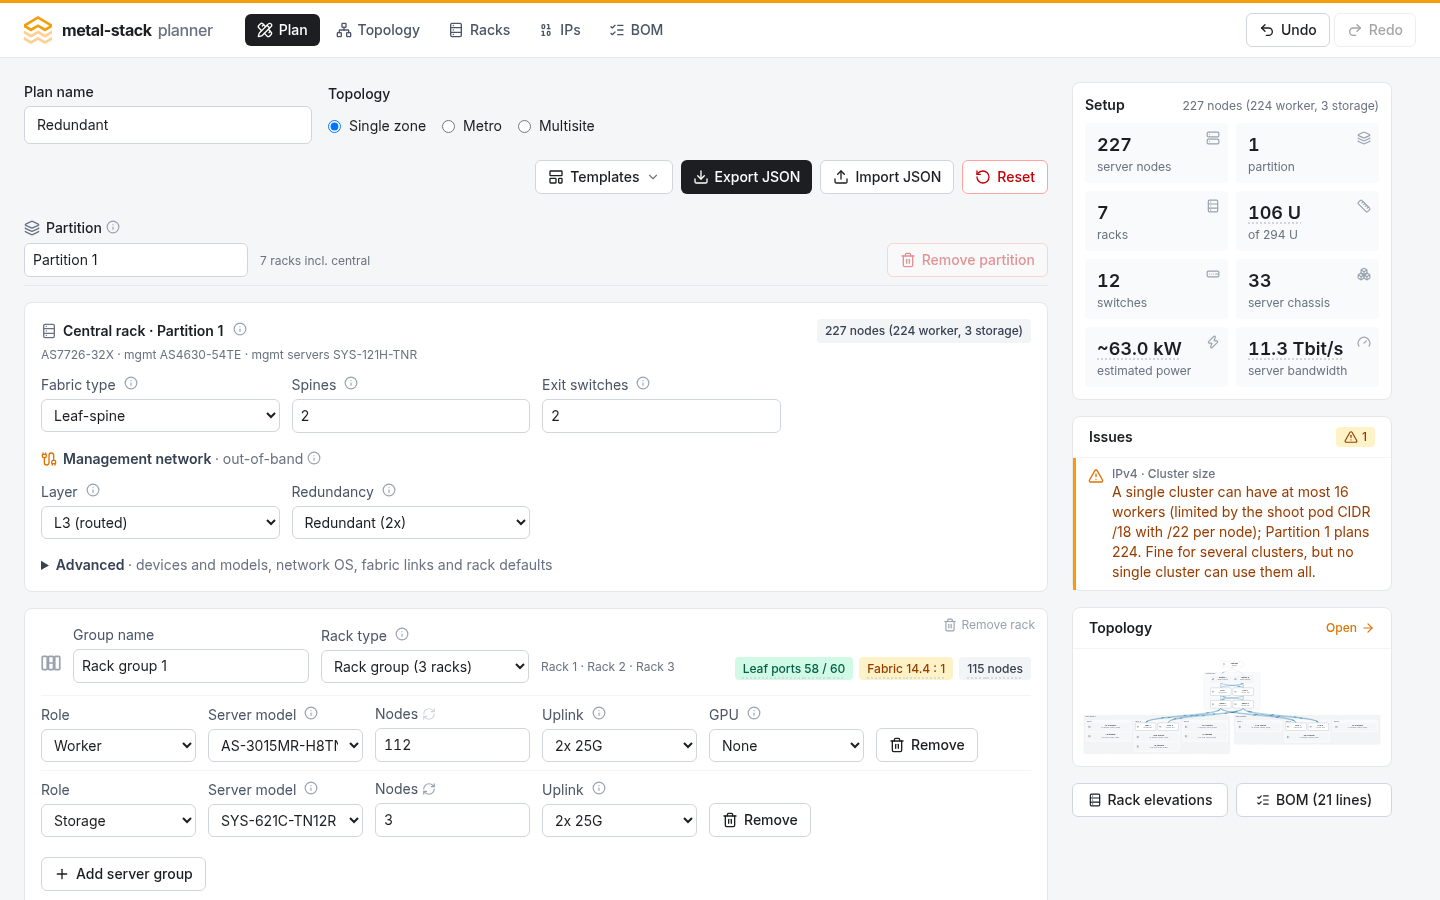
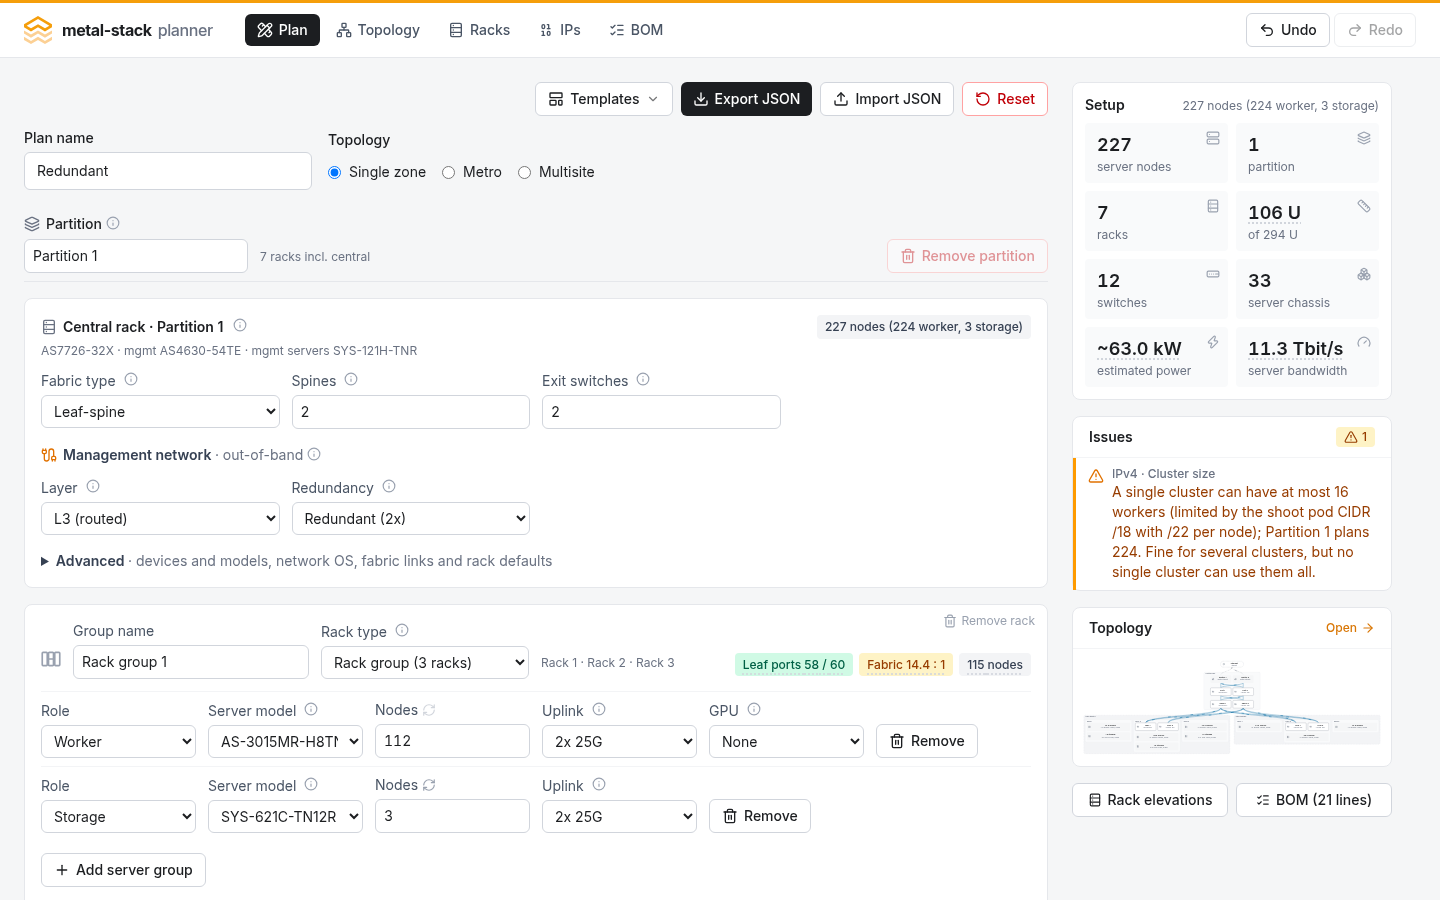
Put the plan actions above the plan name and topology
Templates, Export JSON, Import JSON and Reset now form a right-aligned
toolbar above the plan name and topology instead of sharing their row.
The README's plan screenshot is retaken.

diff --git a/src/views/PlanView.tsx b/src/views/PlanView.tsx
@@ -58,33 +58,9 @@ export default function PlanView() {
     <div className="flex flex-col gap-6 xl:flex-row xl:items-start">
       <div className="min-w-0 flex-1 space-y-6 xl:max-w-5xl">
         <IntroCard />
-        <div className="flex flex-wrap items-end gap-4">
-          <label className="block text-sm">
-            <span className="mb-1 block font-medium">Plan name</span>
-            <input
-              type="text"
-              value={plan.name}
-              onChange={(e) => setPlanName(e.target.value)}
-              className="w-72 rounded-md border border-gray-300 bg-white px-3 py-2"
-            />
-          </label>
-          <div>
-            <span className="mb-1 block text-sm font-medium">Topology</span>
-            <div className="flex gap-4 py-2">
-              {TopologyVariantSchema.options.map((variant) => (
-                <label key={variant} className="flex items-center gap-2 text-sm">
-                  <input
-                    type="radio"
-                    name="topology"
-                    checked={plan.topology === variant}
-                    onChange={() => setTopology(variant)}
-                  />
-                  {topologyLabels[variant]}
-                </label>
-              ))}
-            </div>
-          </div>
-          <div className="ml-auto flex gap-2">
+        {/* Plan actions first, then the plan's own settings. */}
+        <div className="space-y-3">
+          <div className="flex flex-wrap justify-end gap-2">
             <TemplateMenu />
             <button
               onClick={() =>
@@ -119,6 +95,33 @@ export default function PlanView() {
               <Icon icon={ACTION_ICON.reset} />
               Reset
             </button>
+          </div>
+          <div className="flex flex-wrap items-end gap-4">
+            <label className="block text-sm">
+              <span className="mb-1 block font-medium">Plan name</span>
+              <input
+                type="text"
+                value={plan.name}
+                onChange={(e) => setPlanName(e.target.value)}
+                className="w-72 rounded-md border border-gray-300 bg-white px-3 py-2"
+              />
+            </label>
+            <div>
+              <span className="mb-1 block text-sm font-medium">Topology</span>
+              <div className="flex gap-4 py-2">
+                {TopologyVariantSchema.options.map((variant) => (
+                  <label key={variant} className="flex items-center gap-2 text-sm">
+                    <input
+                      type="radio"
+                      name="topology"
+                      checked={plan.topology === variant}
+                      onChange={() => setTopology(variant)}
+                    />
+                    {topologyLabels[variant]}
+                  </label>
+                ))}
+              </div>
+            </div>
           </div>
         </div>
 
